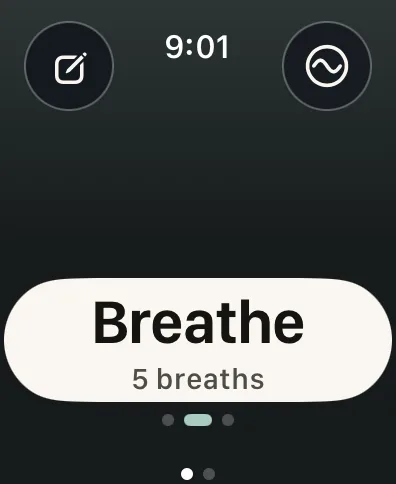
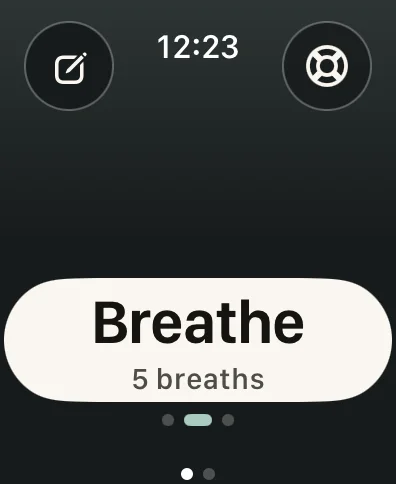
Watch leaf: lifebuoy screens from the iPhone (r18)
Replace the Walk, Breathe and Ground Watch captures with the new ones that show the lifebuoy Help mark. Paint out the static wave band the same way as the current captures (the live wave sits in the same place). Same 396x484 size and filenames; each under 9 KB. Bump ?v= to r18 and sw VERSION to match AGENTS.md. Co-Authored-By: Claude Opus 5.5 <noreply@anthropic.com>

Changed region(s): [[0.3939, 0.062, 0.6061, 0.124], [0.7576, 0.093, 0.8788, 0.186]]

diff --git a/sw.js b/sw.js
@@ -1,10 +1,10 @@
 // Urge Walk — offline (round 3, Nov 9 2026). The three tools keep working with no signal: Walk, Breathe and
 // Ground, with their styles, fonts and phone-size photographs in both lights. Pages are fetched fresh when
 // online (network first) so updates arrive; everything else is served from cache and refreshed behind.
-const VERSION = 'uw-2026-11-25-r17'
+const VERSION = 'uw-2026-11-25-r18'
 const CORE = [
   './', 'index.html', 'walk.html', 'breathe.html', 'ground.html', 'ride.html', 'support.html', 'privacy.html', 'terms.html', 'community.html',
-  'site.js?v=r17', 'book.css?v=r17', 'book.js?v=r17', 'assets/paper/paper-day.webp', 'assets/paper/paper-evening.webp', 'assets/paper/cloth.svg', 'assets/motion/plate-coast.jpg', 'assets/motion/plate-coast-evening.jpg', 'tools.json', 'manifest.webmanifest',
+  'site.js?v=r18', 'book.css?v=r18', 'book.js?v=r18', 'assets/paper/paper-day.webp', 'assets/paper/paper-evening.webp', 'assets/paper/cloth.svg', 'assets/motion/plate-coast.jpg', 'assets/motion/plate-coast-evening.jpg', 'tools.json', 'manifest.webmanifest',
   'assets/icon-sg11.svg', 'assets/icon-192-sg11.png', 'assets/icon-512-sg11.png',
   'assets/fonts/cormorant-garamond-latin-300-normal.woff2', 'assets/fonts/cormorant-garamond-latin-300-italic.woff2',
   'assets/fonts/cormorant-garamond-latin-400-italic.woff2', 'assets/fonts/cormorant-garamond-latin-500-normal.woff2',

diff --git a/index.html b/index.html
@@ -13,7 +13,7 @@
 <link rel="icon" type="image/svg+xml" href="assets/icon-sg11.svg"><link rel="icon" type="image/png" sizes="32x32" href="assets/favicon-32-sg11.png"><link rel="icon" type="image/png" sizes="16x16" href="assets/favicon-16-sg11.png"><link rel="apple-touch-icon" sizes="180x180" href="assets/apple-touch-icon-sg11.png">
 <link rel="preload" as="font" type="font/woff2" href="assets/fonts/cormorant-garamond-latin-300-normal.woff2" crossorigin>
 <link rel="manifest" href="manifest.webmanifest"><meta name="apple-mobile-web-app-capable" content="yes"><meta name="mobile-web-app-capable" content="yes"><meta name="apple-mobile-web-app-title" content="Urge Walk"><meta name="apple-mobile-web-app-status-bar-style" content="default">
-<link rel="stylesheet" href="book.css?v=r17"><script src="book.js?v=r17" defer></script><script src="site.js?v=r17" defer></script>
+<link rel="stylesheet" href="book.css?v=r18"><script src="book.js?v=r18" defer></script><script src="site.js?v=r18" defer></script>
 </head><body>
 <a class="skip" href="#contents">Skip to the contents</a><a class="skip skip2" href="#colophon">Skip to the colophon</a>
 <header class="head"><a class="brand" href="index.html">Urge Walk</a>

diff --git a/ride.html b/ride.html
@@ -13,7 +13,7 @@
 <link rel="icon" type="image/svg+xml" href="assets/icon-sg11.svg"><link rel="icon" type="image/png" sizes="32x32" href="assets/favicon-32-sg11.png"><link rel="icon" type="image/png" sizes="16x16" href="assets/favicon-16-sg11.png"><link rel="apple-touch-icon" sizes="180x180" href="assets/apple-touch-icon-sg11.png">
 <link rel="preload" as="font" type="font/woff2" href="assets/fonts/cormorant-garamond-latin-300-normal.woff2" crossorigin>
 <link rel="manifest" href="manifest.webmanifest"><meta name="apple-mobile-web-app-capable" content="yes"><meta name="mobile-web-app-capable" content="yes"><meta name="apple-mobile-web-app-title" content="Urge Walk"><meta name="apple-mobile-web-app-status-bar-style" content="default">
-<link rel="stylesheet" href="book.css?v=r17"><script src="book.js?v=r17" defer></script><script src="site.js?v=r17" defer></script>
+<link rel="stylesheet" href="book.css?v=r18"><script src="book.js?v=r18" defer></script><script src="site.js?v=r18" defer></script>
 <noscript><style>/* Without JavaScript: the Shore still, the whole wave, and a calm line in place of Start. */
 .rio video,#go,#stop,.rio .js-only{display:none}</style></noscript>
 </head><body>

diff --git a/404.html b/404.html
@@ -14,7 +14,7 @@
 <link rel="icon" type="image/svg+xml" href="assets/icon-sg11.svg"><link rel="icon" type="image/png" sizes="32x32" href="assets/favicon-32-sg11.png"><link rel="icon" type="image/png" sizes="16x16" href="assets/favicon-16-sg11.png"><link rel="apple-touch-icon" sizes="180x180" href="assets/apple-touch-icon-sg11.png">
 <link rel="preload" as="font" type="font/woff2" href="assets/fonts/cormorant-garamond-latin-300-normal.woff2" crossorigin>
 <link rel="manifest" href="manifest.webmanifest"><meta name="apple-mobile-web-app-capable" content="yes"><meta name="mobile-web-app-capable" content="yes"><meta name="apple-mobile-web-app-title" content="Urge Walk"><meta name="apple-mobile-web-app-status-bar-style" content="default">
-<link rel="stylesheet" href="book.css?v=r17"><script src="book.js?v=r17" defer></script><script src="site.js?v=r17" defer></script>
+<link rel="stylesheet" href="book.css?v=r18"><script src="book.js?v=r18" defer></script><script src="site.js?v=r18" defer></script>
 </head><body>
 <a class="skip" href="#main">Skip to content</a>
 <header class="head"><a class="brand" href="index.html">Urge Walk</a>

diff --git a/breathe.html b/breathe.html
@@ -13,7 +13,7 @@
 <link rel="icon" type="image/svg+xml" href="assets/icon-sg11.svg"><link rel="icon" type="image/png" sizes="32x32" href="assets/favicon-32-sg11.png"><link rel="icon" type="image/png" sizes="16x16" href="assets/favicon-16-sg11.png"><link rel="apple-touch-icon" sizes="180x180" href="assets/apple-touch-icon-sg11.png">
 <link rel="preload" as="font" type="font/woff2" href="assets/fonts/cormorant-garamond-latin-300-normal.woff2" crossorigin>
 <link rel="manifest" href="manifest.webmanifest"><meta name="apple-mobile-web-app-capable" content="yes"><meta name="mobile-web-app-capable" content="yes"><meta name="apple-mobile-web-app-title" content="Urge Walk"><meta name="apple-mobile-web-app-status-bar-style" content="default">
-<link rel="stylesheet" href="book.css?v=r17"><script src="book.js?v=r17" defer></script><script src="site.js?v=r17" defer></script>
+<link rel="stylesheet" href="book.css?v=r18"><script src="book.js?v=r18" defer></script><script src="site.js?v=r18" defer></script>
 </head><body>
 <a class="skip" href="#main">Skip to content</a>
 <header class="head"><a class="brand" href="index.html">Urge Walk</a>

diff --git a/community.html b/community.html
@@ -13,7 +13,7 @@
 <link rel="icon" type="image/svg+xml" href="assets/icon-sg11.svg"><link rel="icon" type="image/png" sizes="32x32" href="assets/favicon-32-sg11.png"><link rel="icon" type="image/png" sizes="16x16" href="assets/favicon-16-sg11.png"><link rel="apple-touch-icon" sizes="180x180" href="assets/apple-touch-icon-sg11.png">
 <link rel="preload" as="font" type="font/woff2" href="assets/fonts/cormorant-garamond-latin-300-normal.woff2" crossorigin>
 <link rel="manifest" href="manifest.webmanifest"><meta name="apple-mobile-web-app-capable" content="yes"><meta name="mobile-web-app-capable" content="yes"><meta name="apple-mobile-web-app-title" content="Urge Walk"><meta name="apple-mobile-web-app-status-bar-style" content="default">
-<link rel="stylesheet" href="book.css?v=r17"><script src="book.js?v=r17" defer></script><script src="site.js?v=r17" defer></script>
+<link rel="stylesheet" href="book.css?v=r18"><script src="book.js?v=r18" defer></script><script src="site.js?v=r18" defer></script>
 </head><body>
 <a class="skip" href="#main">Skip to content</a>
 <header class="head"><a class="brand" href="index.html">Urge Walk</a>

diff --git a/ground.html b/ground.html
@@ -13,7 +13,7 @@
 <link rel="icon" type="image/svg+xml" href="assets/icon-sg11.svg"><link rel="icon" type="image/png" sizes="32x32" href="assets/favicon-32-sg11.png"><link rel="icon" type="image/png" sizes="16x16" href="assets/favicon-16-sg11.png"><link rel="apple-touch-icon" sizes="180x180" href="assets/apple-touch-icon-sg11.png">
 <link rel="preload" as="font" type="font/woff2" href="assets/fonts/cormorant-garamond-latin-300-normal.woff2" crossorigin>
 <link rel="manifest" href="manifest.webmanifest"><meta name="apple-mobile-web-app-capable" content="yes"><meta name="mobile-web-app-capable" content="yes"><meta name="apple-mobile-web-app-title" content="Urge Walk"><meta name="apple-mobile-web-app-status-bar-style" content="default">
-<link rel="stylesheet" href="book.css?v=r17"><script src="book.js?v=r17" defer></script><script src="site.js?v=r17" defer></script>
+<link rel="stylesheet" href="book.css?v=r18"><script src="book.js?v=r18" defer></script><script src="site.js?v=r18" defer></script>
 </head><body>
 <a class="skip" href="#main">Skip to content</a>
 <header class="head"><a class="brand" href="index.html">Urge Walk</a>

diff --git a/helpers.html b/helpers.html
@@ -13,7 +13,7 @@
 <link rel="icon" type="image/svg+xml" href="assets/icon-sg11.svg"><link rel="icon" type="image/png" sizes="32x32" href="assets/favicon-32-sg11.png"><link rel="icon" type="image/png" sizes="16x16" href="assets/favicon-16-sg11.png"><link rel="apple-touch-icon" sizes="180x180" href="assets/apple-touch-icon-sg11.png">
 <link rel="preload" as="font" type="font/woff2" href="assets/fonts/cormorant-garamond-latin-300-normal.woff2" crossorigin>
 <link rel="manifest" href="manifest.webmanifest"><meta name="apple-mobile-web-app-capable" content="yes"><meta name="mobile-web-app-capable" content="yes"><meta name="apple-mobile-web-app-title" content="Urge Walk"><meta name="apple-mobile-web-app-status-bar-style" content="default">
-<link rel="stylesheet" href="book.css?v=r17"><script src="book.js?v=r17" defer></script><script src="site.js?v=r17" defer></script>
+<link rel="stylesheet" href="book.css?v=r18"><script src="book.js?v=r18" defer></script><script src="site.js?v=r18" defer></script>
 </head><body>
 <a class="skip" href="#main">Skip to content</a>
 <header class="head"><a class="brand" href="index.html">Urge Walk</a>

diff --git a/premium.html b/premium.html
@@ -13,7 +13,7 @@
 <link rel="icon" type="image/svg+xml" href="assets/icon-sg11.svg"><link rel="icon" type="image/png" sizes="32x32" href="assets/favicon-32-sg11.png"><link rel="icon" type="image/png" sizes="16x16" href="assets/favicon-16-sg11.png"><link rel="apple-touch-icon" sizes="180x180" href="assets/apple-touch-icon-sg11.png">
 <link rel="preload" as="font" type="font/woff2" href="assets/fonts/cormorant-garamond-latin-300-normal.woff2" crossorigin>
 <link rel="manifest" href="manifest.webmanifest"><meta name="apple-mobile-web-app-capable" content="yes"><meta name="mobile-web-app-capable" content="yes"><meta name="apple-mobile-web-app-title" content="Urge Walk"><meta name="apple-mobile-web-app-status-bar-style" content="default">
-<link rel="stylesheet" href="book.css?v=r17"><script src="book.js?v=r17" defer></script><script src="site.js?v=r17" defer></script>
+<link rel="stylesheet" href="book.css?v=r18"><script src="book.js?v=r18" defer></script><script src="site.js?v=r18" defer></script>
 </head><body>
 <a class="skip" href="#main">Skip to content</a>
 <header class="head"><a class="brand" href="index.html">Urge Walk</a>

diff --git a/privacy.html b/privacy.html
@@ -13,7 +13,7 @@
 <link rel="icon" type="image/svg+xml" href="assets/icon-sg11.svg"><link rel="icon" type="image/png" sizes="32x32" href="assets/favicon-32-sg11.png"><link rel="icon" type="image/png" sizes="16x16" href="assets/favicon-16-sg11.png"><link rel="apple-touch-icon" sizes="180x180" href="assets/apple-touch-icon-sg11.png">
 <link rel="preload" as="font" type="font/woff2" href="assets/fonts/cormorant-garamond-latin-300-normal.woff2" crossorigin>
 <link rel="manifest" href="manifest.webmanifest"><meta name="apple-mobile-web-app-capable" content="yes"><meta name="mobile-web-app-capable" content="yes"><meta name="apple-mobile-web-app-title" content="Urge Walk"><meta name="apple-mobile-web-app-status-bar-style" content="default">
-<link rel="stylesheet" href="book.css?v=r17"><script src="book.js?v=r17" defer></script><script src="site.js?v=r17" defer></script>
+<link rel="stylesheet" href="book.css?v=r18"><script src="book.js?v=r18" defer></script><script src="site.js?v=r18" defer></script>
 </head><body>
 <a class="skip" href="#main">Skip to content</a>
 <header class="head"><a class="brand" href="index.html">Urge Walk</a>

diff --git a/support.html b/support.html
@@ -13,7 +13,7 @@
 <link rel="icon" type="image/svg+xml" href="assets/icon-sg11.svg"><link rel="icon" type="image/png" sizes="32x32" href="assets/favicon-32-sg11.png"><link rel="icon" type="image/png" sizes="16x16" href="assets/favicon-16-sg11.png"><link rel="apple-touch-icon" sizes="180x180" href="assets/apple-touch-icon-sg11.png">
 <link rel="preload" as="font" type="font/woff2" href="assets/fonts/cormorant-garamond-latin-300-normal.woff2" crossorigin>
 <link rel="manifest" href="manifest.webmanifest"><meta name="apple-mobile-web-app-capable" content="yes"><meta name="mobile-web-app-capable" content="yes"><meta name="apple-mobile-web-app-title" content="Urge Walk"><meta name="apple-mobile-web-app-status-bar-style" content="default">
-<link rel="stylesheet" href="book.css?v=r17"><script src="book.js?v=r17" defer></script><script src="site.js?v=r17" defer></script>
+<link rel="stylesheet" href="book.css?v=r18"><script src="book.js?v=r18" defer></script><script src="site.js?v=r18" defer></script>
 </head><body>
 <a class="skip" href="#main">Skip to content</a>
 <header class="head"><a class="brand" href="index.html">Urge Walk</a>

diff --git a/terms.html b/terms.html
@@ -13,7 +13,7 @@
 <link rel="icon" type="image/svg+xml" href="assets/icon-sg11.svg"><link rel="icon" type="image/png" sizes="32x32" href="assets/favicon-32-sg11.png"><link rel="icon" type="image/png" sizes="16x16" href="assets/favicon-16-sg11.png"><link rel="apple-touch-icon" sizes="180x180" href="assets/apple-touch-icon-sg11.png">
 <link rel="preload" as="font" type="font/woff2" href="assets/fonts/cormorant-garamond-latin-300-normal.woff2" crossorigin>
 <link rel="manifest" href="manifest.webmanifest"><meta name="apple-mobile-web-app-capable" content="yes"><meta name="mobile-web-app-capable" content="yes"><meta name="apple-mobile-web-app-title" content="Urge Walk"><meta name="apple-mobile-web-app-status-bar-style" content="default">
-<link rel="stylesheet" href="book.css?v=r17"><script src="book.js?v=r17" defer></script><script src="site.js?v=r17" defer></script>
+<link rel="stylesheet" href="book.css?v=r18"><script src="book.js?v=r18" defer></script><script src="site.js?v=r18" defer></script>
 </head><body>
 <a class="skip" href="#main">Skip to content</a>
 <header class="head"><a class="brand" href="index.html">Urge Walk</a>
